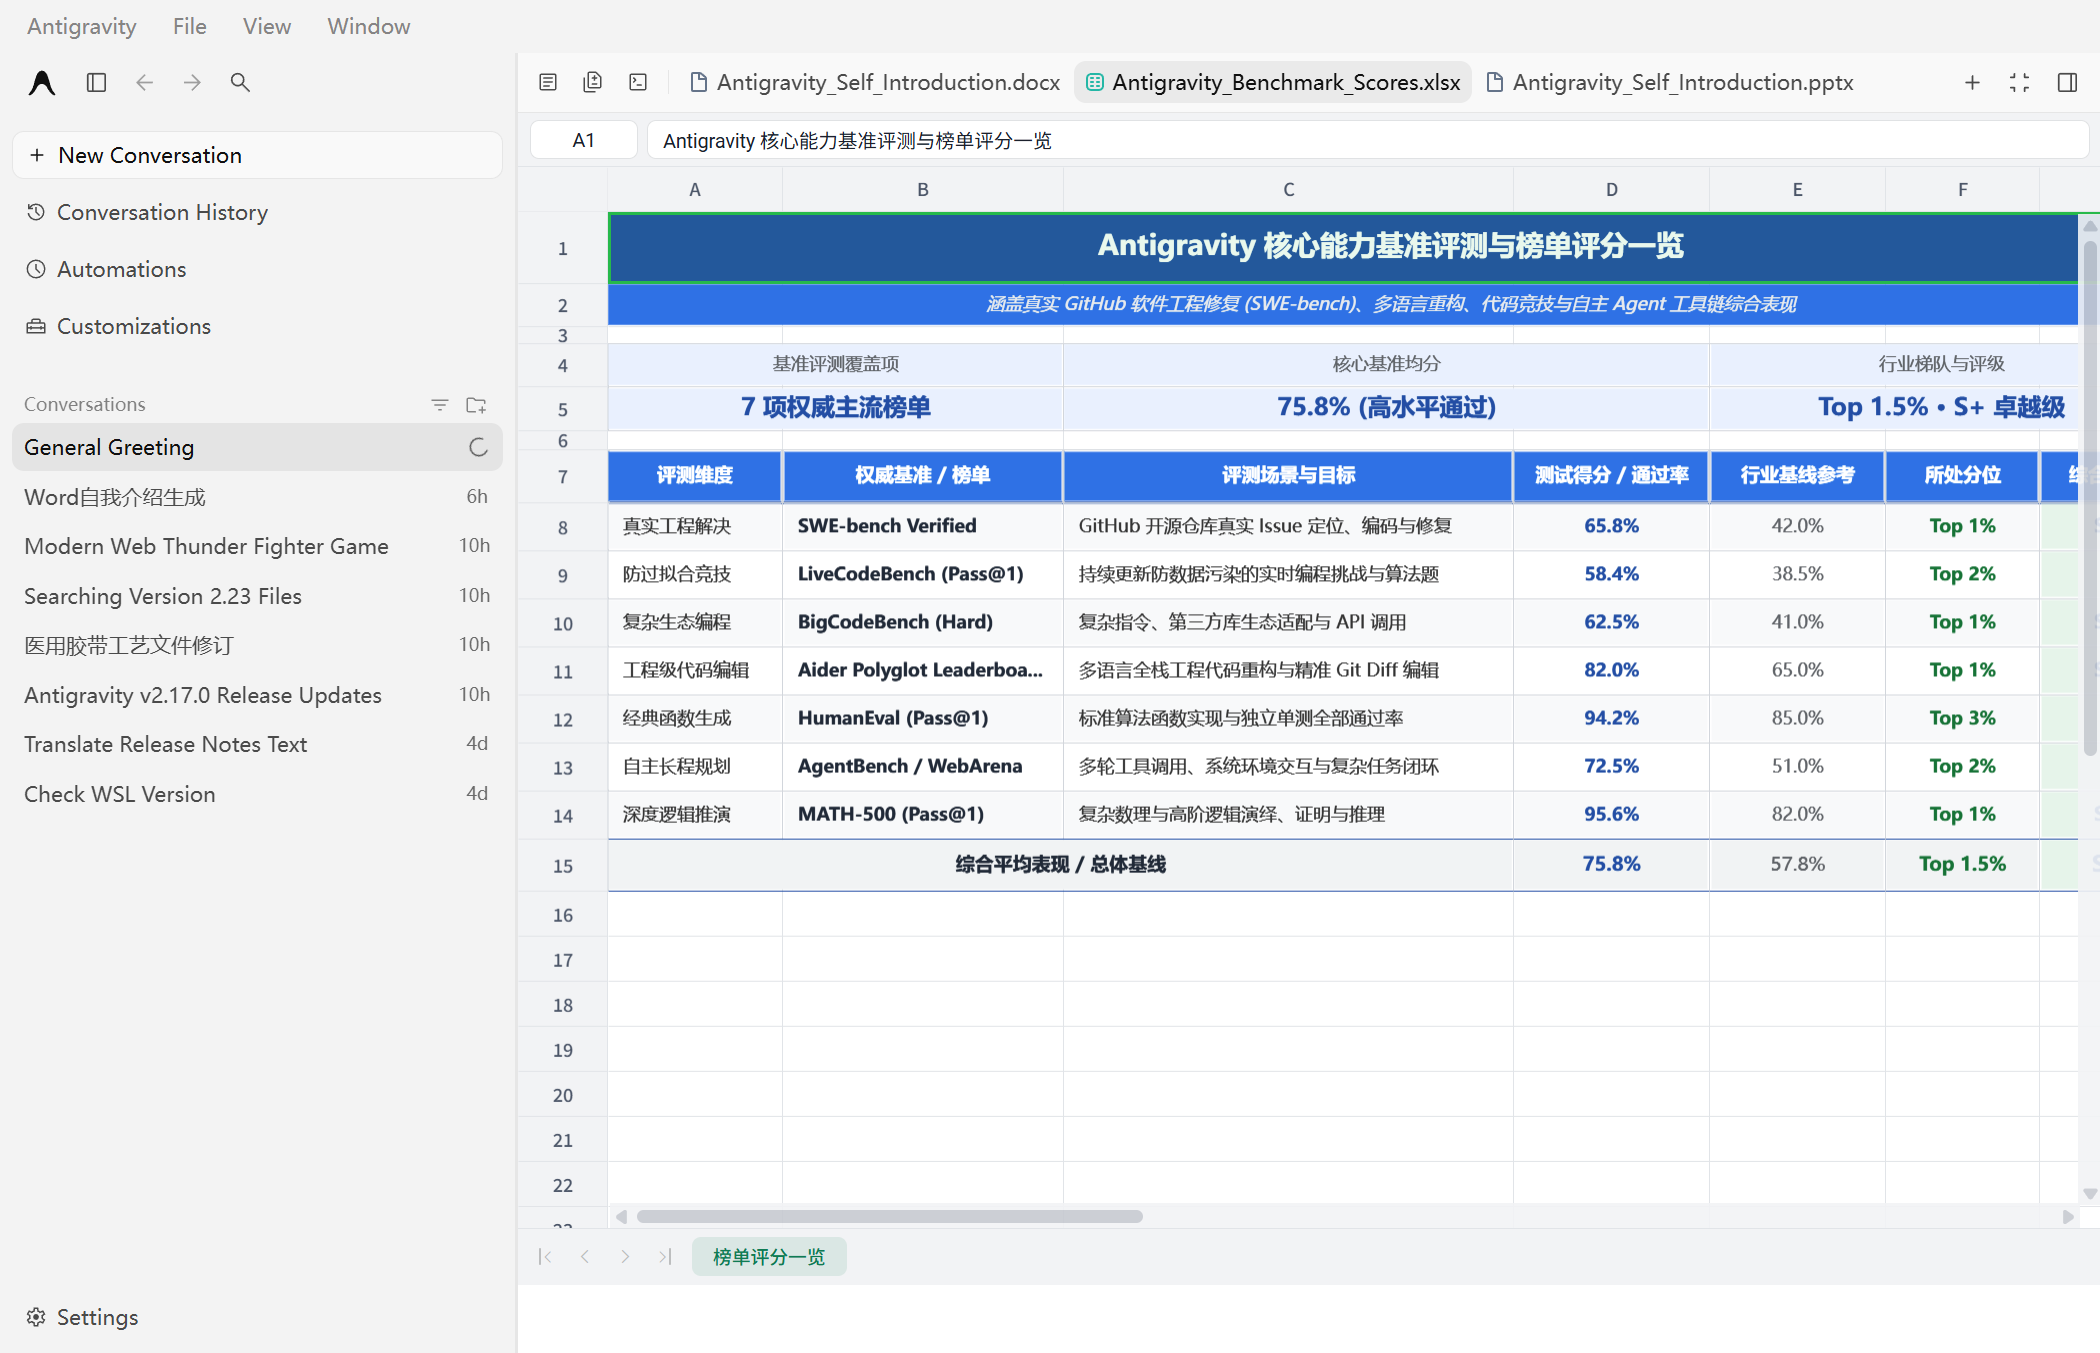
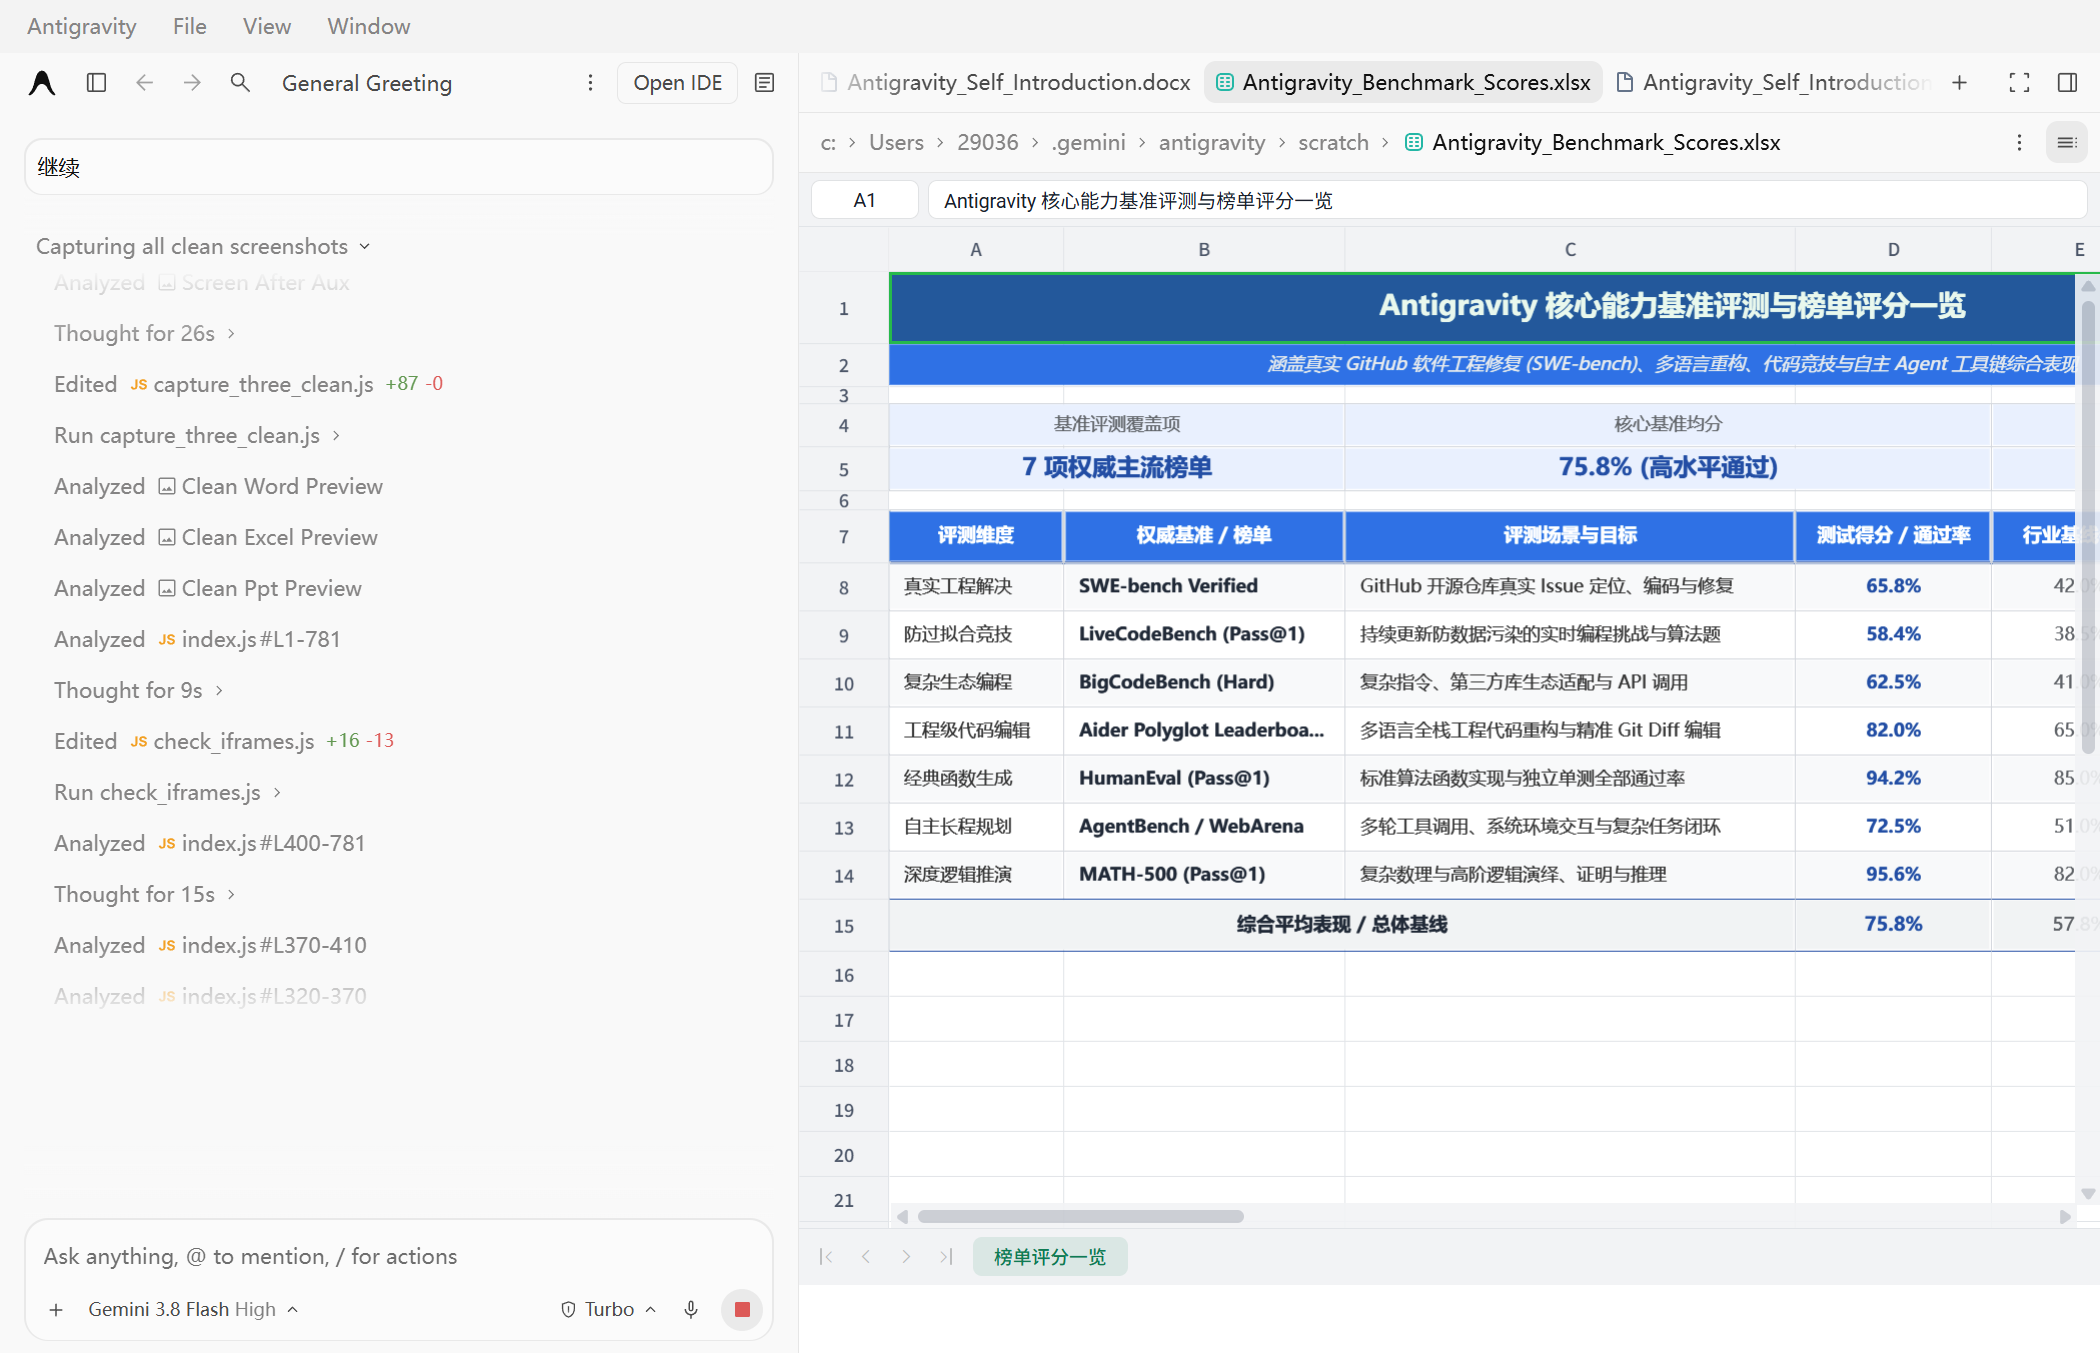
docs: add bilingual README and clean screenshots without sidebar; fix artifact row mount

diff --git a/index.js b/index.js
@@ -49,7 +49,7 @@ if (!WEBVIEW_DIR) {
 
 function normalizeFilePath(rawPath) {
   if (!rawPath) return '';
-  let p = decodeURIComponent(rawPath).replace(/^file:\/\/\/?/i, '');
+  let p = decodeURIComponent(rawPath).replace(/^file:[\\/]+/i, '');
   if (/^[a-zA-Z]\//.test(p)) {
     p = p.charAt(0) + ':' + p.slice(1);
   }
@@ -486,7 +486,7 @@ const INJECTION_SCRIPT = `
       if (activeTabId && activeTabId.startsWith('file__')) {
         let raw = activeTabId.slice(6);
         try { raw = decodeURIComponent(raw); } catch(e) {}
-        raw = raw.replace(/^file:\\/\\/\\/?/i, '');
+        raw = raw.replace(/^file:[\\/]+/i, '');
         if (/^[a-zA-Z]\\//.test(raw)) {
           raw = raw.charAt(0) + ':' + raw.slice(1);
         }
@@ -511,7 +511,7 @@ const INJECTION_SCRIPT = `
 
     let s = window.location.search || '';
     try { s = decodeURIComponent(decodeURIComponent(s)); } catch(e) {}
-    let m = s.match(/tab=file__(?:file:\\/\\/\\/?)?([a-zA-Z]:[^&]+)/i);
+    let m = s.match(/tab=file__(?:file:[\\/]+)?([a-zA-Z]:[^&]+)/i);
     if (m) {
       let p = m[1].replace(/\\//g, '\\\\');
       if (/\\.(docx|dotx|xlsx|xlsm|xls|csv|tsv|ods|pptx|ppt|pptm)$/i.test(p)) {
@@ -531,7 +531,10 @@ const INJECTION_SCRIPT = `
       return;
     }
 
-    const contentArea = rightPane.querySelector('.flex-grow.overflow-hidden') ||
+    // Content area strictly below the header (.shrink-0) and subheader/Artifact row
+    const editorArea = rightPane.querySelector('.flex-1.min-h-0');
+    const contentArea = editorArea ||
+                        rightPane.querySelector('.flex-grow.overflow-hidden') ||
                         rightPane.querySelector('.flex-grow') ||
                         rightPane;
 
@@ -601,7 +604,7 @@ const INJECTION_SCRIPT = `
           if (tabId.startsWith('file__')) {
             let p = tabId.slice(6);
             try { p = decodeURIComponent(p); } catch(e) {}
-            p = p.replace(/^file:\\/\\/\\/?/i, '').replace(/\\//g, '\\\\').toLowerCase();
+            p = p.replace(/^file:[\\/]+/i, '').replace(/\\//g, '\\\\').toLowerCase();
             if (/^[a-zA-Z]\\:/.test(p)) openKeys.add(p);
           }
           if (title) openKeys.add(title);
@@ -614,6 +617,14 @@ const INJECTION_SCRIPT = `
           }
         }
       }
+
+      // Auto-pin preview tabs so clicking files keeps them open as persistent coexisting tabs
+      const tabButtons = header.querySelectorAll('button[data-tab-id]');
+      tabButtons.forEach(btn => {
+        if (btn.querySelector('.italic') || btn.querySelector('[class*="italic"]')) {
+          btn.dispatchEvent(new MouseEvent('dblclick', { bubbles: true, cancelable: true }));
+        }
+      });
     }
   }
 

diff --git a/README.md b/README.md
@@ -1,58 +1,75 @@
-# Antigravity Office Viewer 
-Google Antigravity Office (Word / Excel / PowerPoint) 文档预览扩展，通过 **Proxy DLL 静默加载 + CDP 原生挂载** 实现。
+# Antigravity Office Viewer
+
+Seamless Word (`.docx`), Excel (`.xlsx`), and PowerPoint (`.pptx`) document preview for Google Antigravity.
+
+[English](#english) | [中文说明](#中文说明)
 
 ---
 
-## 📸 预览截图 (Screenshots)
+<a name="english"></a>
+## English
 
-### Word (`.docx`) 预览
-> 正确排版，保留标题、段落格式
+Antigravity natively opens Office files (`.docx`, `.xlsx`, `.pptx`) as binary text files, showing raw `PK...` mojibake. **Antigravity Office Viewer** provides a native, beautiful, and zero-configuration office preview panel directly inside the editor pane.
 
+### Screenshots
 
+#### Word (`.docx`)
+![Word Preview](screenshots/word_preview.png)
+
+#### Excel (`.xlsx`)
+![Excel Preview](screenshots/excel_preview.png)
+
+#### PowerPoint (`.pptx`)
+![PowerPoint Preview](screenshots/ppt_preview.png)
+
+### Features
+
+- **Native Office Preview**: High-fidelity rendering for Word (`.docx`), Excel (`.xlsx`), and PowerPoint (`.pptx`).
+- **Clean Reading View**: Strips away distracting edit toolbars, banners, and redundant controls for a focused document experience.
+- **Instant Multi-Tab Switching**: Independent render pool preserves scroll state and allows 0ms instant tab switching.
+- **Non-Invasive & Safe**: Uses a standard `winmm.dll` proxy forwarder to silently launch the background viewer service when Antigravity opens. Zero modifications to Antigravity core executables.
+
+### Quick Install
+
+1. Clone or download this repository.
+2. Double-click **`start.bat`**.
+   > It automatically copies `winmm.dll` and the viewer service into `%LOCALAPPDATA%\Programs\antigravity\`.
+3. Restart **Antigravity**. You're all set!
 
 ---
 
-### Excel (`.xlsx`) 预览
-> 多工作表切换，保留表格样式
+<a name="中文说明"></a>
+## 中文说明
 
+Google Antigravity 默认会将 Office 文件（`.docx` / `.xlsx` / `.pptx`）以纯文本打开，导致显示为 `PK...` 二进制乱码。**Antigravity Office Viewer** 通过无感扩展架构，在 Antigravity 主编辑区内直接提供高保真文档预览。
 
----
+### 效果展示
 
-### PowerPoint (`.pptx`) 预览
-> 瀑布流排布，保留布局样式
+#### Word (`.docx`) 预览
+![Word Preview](screenshots/word_preview.png)
 
+#### Excel (`.xlsx`) 预览
+![Excel Preview](screenshots/excel_preview.png)
 
----
+#### PowerPoint (`.pptx`) 预览
+![PowerPoint Preview](screenshots/ppt_preview.png)
 
-## ⚡ 一键安装 (Quick Install)
+### 核心特性
+
+- **原生 Office 渲染**：完美支持 Word、Excel、PPT 渲染与多标签页共存。
+- **纯净阅读体验**：自动过滤编辑工具栏、浮动横幅与无关按钮，呈现整洁排版。
+- **0ms 无感切页**：多文档独立渲染池，切换即刻响应并保留各文档浏览位置。
+- **安全非侵入**：采用系统级 `winmm.dll` 代理转发机制，随 Antigravity 启动静默拉起后台服务，不篡改原版核心安装包。
+
+### 一键安装
 
 1. 克隆或下载本仓库；
 2. 双击运行 **`start.bat`**；
-   > 脚本会自动将 DLL 加载器及渲染引擎完整部署至 Antigravity 目录（`%LOCALAPPDATA%\Programs\antigravity\`）。
-3. 重新打开 Antigravity 即可！
-   > 启动时由系统底层通过 `winmm.dll` 自动静默拉起后台服务，无黑框、全无感。
+   > 脚本将自动将代理 DLL 与渲染模块部署至 `%LOCALAPPDATA%\Programs\antigravity\`。
+3. 重新打开 **Antigravity** 即可体验！
 
 ---
 
-## ✨ 核心特性 (Features)
-
-- **Word / Excel / PPT 原生预览**：解决打开即为 `PK...` 二进制乱码的痛点，直接在右侧主编辑区呈现高保真渲染；
-- **纯净阅读视图**：自动剔除原编辑器的修改工具栏、暗色切换按钮、只读黄色横幅与赞助标语；
-- **0ms 无感切页**：底层独立 iframe 渲染池，多文档切换无需重新加载，保留滚动进度；
-- **安全非侵入**：不修改 Antigravity 原版 `.exe` 与核心安装包，`winmm.dll` 完美透传 180+ 原生 API 至 `System32\winmm.dll`。
-
----
-
-## 🛠 自行编译 DLL (Optional)
-
-```bash
-cd src/loader
-build_dll.bat
-```
-*(需安装 MinGW GCC，编译产物输出至 `bin/winmm.dll`)*
-
----
-
-## 📜 协议 (License)
+## License
 
 MIT License © 2026 [Artriai](https://github.com/Artriai)
